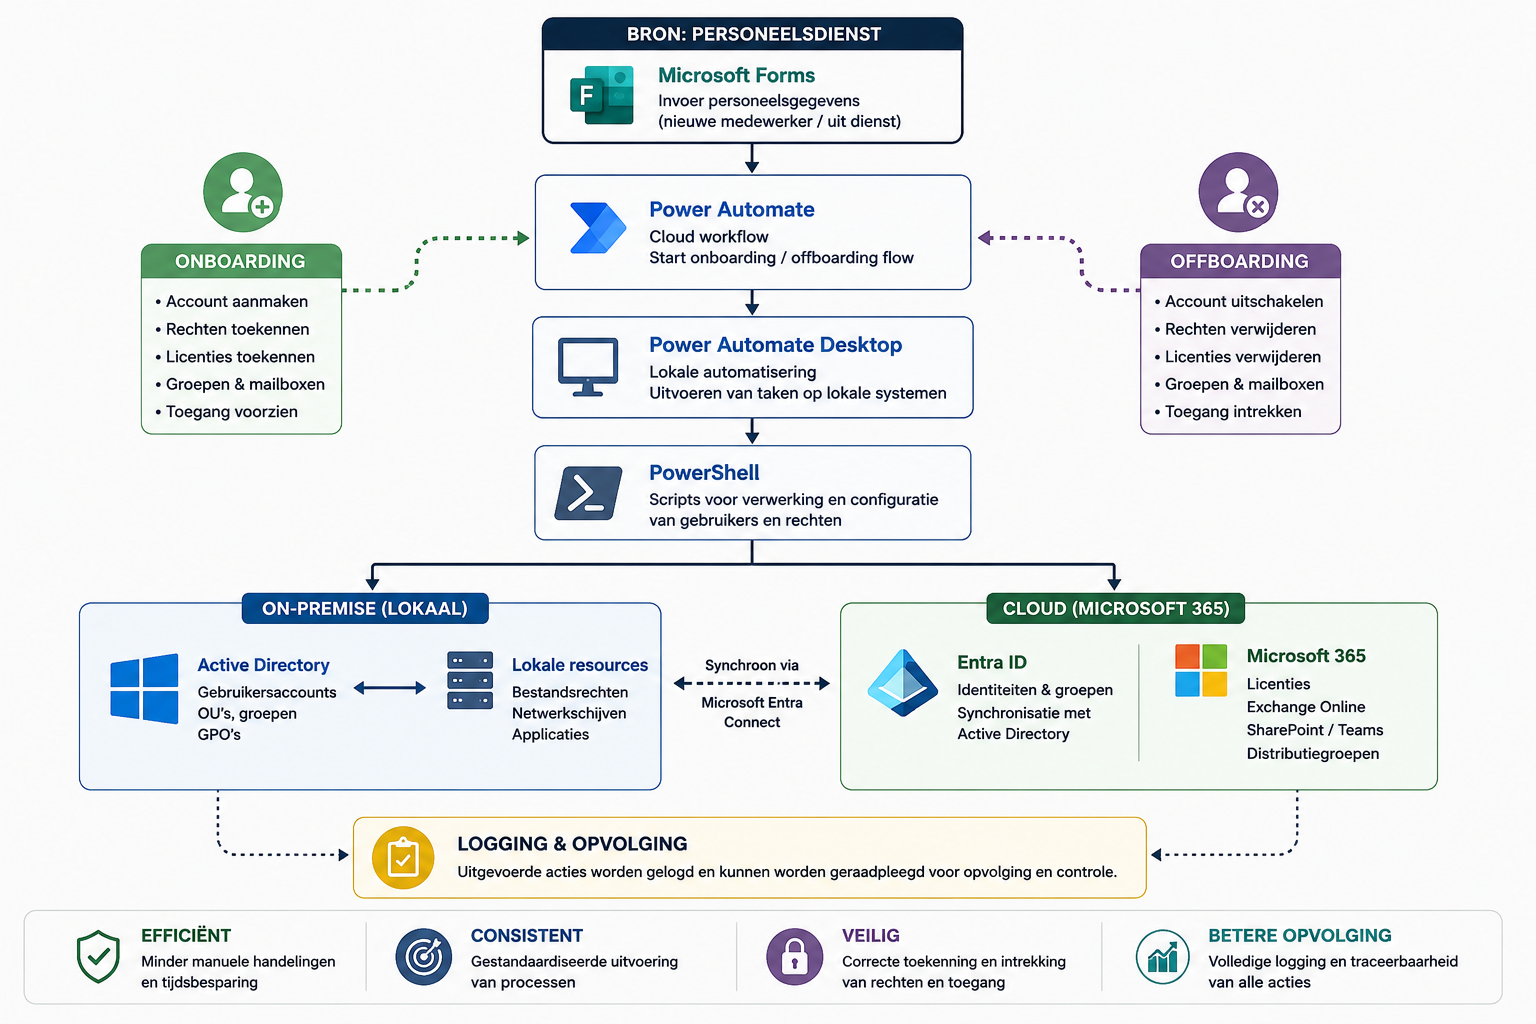
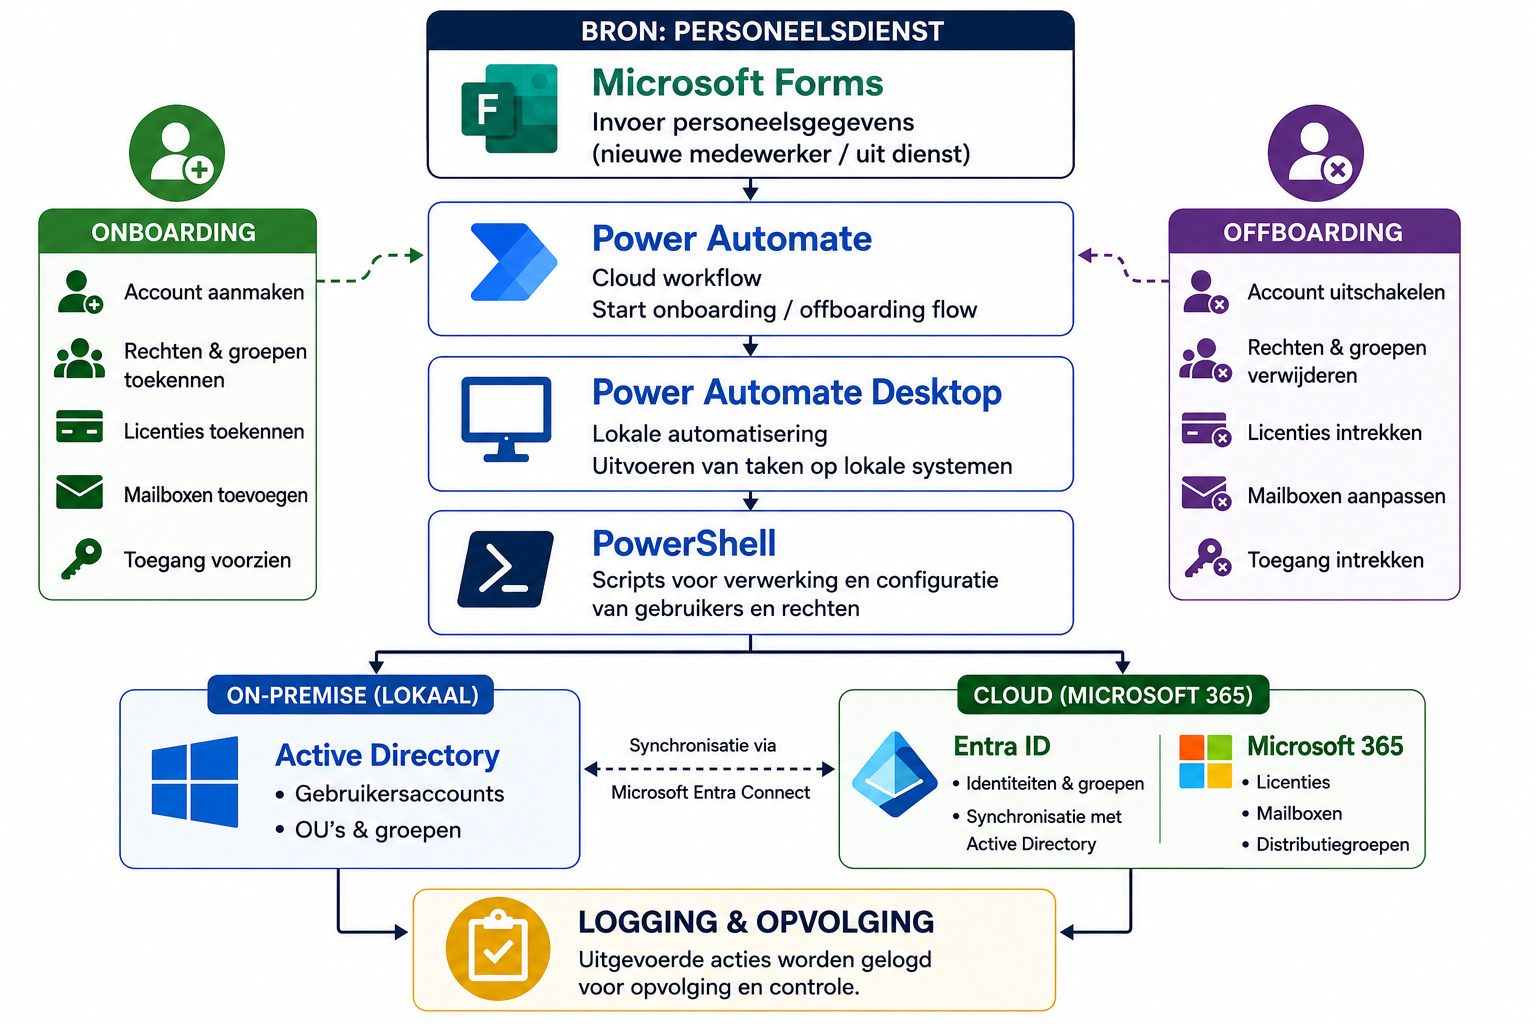
Poster

diff --git a/poster/conference_poster.tex b/poster/conference_poster.tex
@@ -13,9 +13,8 @@
 \institution{Hogeschool Gent, Valentin Vaerwyckweg 1, 9000 Gent}
 
 % Info over de bachelorproef
-\title{Automatisatie van het onboarding- en offboardingsproces binnen het gemeen-
-tebestuur van Berlare}
-\author{Ewout Van Mulem}
+\title{Automatisatie van het onboarding- en offboardingsproces binnen het gemeentebestuur van Berlare}
+\author{Ewout Van Mullem}
 \email{ewout.vanmullem@student.hogent.be}
 \supervisor{Thomas Aelbrecht}
 \cosupervisor{Hans Van Mingeroet (Gemeentebestuur Berlare)}
@@ -66,20 +65,26 @@ Op welke manier kan een geautomatiseerd systeem ontwikkeld worden dat, op basis 
 
 \section{Methodologie}
 
-Het onderzoek werd uitgevoerd aan de hand van een Proof of Concept methode, waarbij de oplossing iteratief werd ontworpen, ontwikkeld en geëvalueerd.
+Het onderzoek werd uitgevoerd aan de hand van een Proof of Concept-methode,
+waarbij de oplossing iteratief werd ontworpen, ontwikkeld en geëvalueerd.
 
 \subsection{Analyse}
-Het bestaande onboarding- en offboardingproces en de huidige IT-infrastructuur werden in kaart gebracht. Hierbij werden knelpunten en mogelijke automatiseringsstappen geïdentificeerd.
+Het bestaande onboarding- en offboardingproces en de IT-infrastructuur
+werden geanalyseerd. Hierbij werden knelpunten en mogelijke
+automatiseringsstappen geïdentificeerd.
 
 \subsection{Ontwerp}
-Op basis van de analyse werd een geautomatiseerde workflow ontworpen die aansluit bij de bestaande hybride IT-omgeving.
+Op basis van de analyse werd een geautomatiseerde workflow ontworpen
+voor de bestaande hybride IT-omgeving.
 
 \subsection{Implementatie}
-De oplossing werd gerealiseerd met Microsoft Forms, Power Automate, Power Automate Desktop, PowerShell en Microsoft 365.
+De oplossing werd gerealiseerd met Microsoft Forms, Power Automate,
+Power Automate Desktop, PowerShell en Microsoft 365.
 
 \subsection{Evaluatie}
-De geautomatiseerde processen werden getest en vergeleken met de oorspronkelijke manuele werkwijze. Hierbij werd gekeken naar efficiëntie, consistentie, betrouwbaarheid en het verschil in tijd.
-
+De geautomatiseerde processen werden vergeleken met de oorspronkelijke
+manuele werkwijze op vlak van tijd, efficiëntie, consistentie en
+betrouwbaarheid.
 % \section{Toekomstig onderzoek}
 
 % I care. So, what do you think of her, Han? No! Alderaan is peaceful. We have no weapons. You can't possibly… I have traced the Rebel spies to her. Now she is my only link to finding their secret base.
@@ -88,23 +93,104 @@ De geautomatiseerde processen werden getest en vergeleken met de oorspronkelijke
 
 \section{Gerealiseerde oplossing}
 
-\begin{center}
-  \captionsetup{type=figure}
-  \includegraphics[width=1.0\linewidth]{graphics/Uitwerking.png}
-  \captionof{figure}{Visuele voorstelling van het uitgewerkte proces}
-\end{center}
+% \begin{center}
+%   \includegraphics[width=1.0\linewidth]{graphics/Uitwerking.png}
+
+%   \captionsetup{type=figure}
+%   \captionof{figure}{Visuele voorstelling van het uitgewerkte proces}
+% \end{center}
+
+\begin{minipage}{\linewidth}
+    \centering
+    \hspace*{-0.15\linewidth}
+    \includegraphics[width=1.15\linewidth,height=30cm]{graphics/Uitwerking.png}
+    
+    \captionof{figure}{Visuele voorstelling van het uitgewerkte proces}
+\end{minipage}
 
 \section{Resultaten}
 
-De ontwikkelde automatisering werd getest binnen de bestaande hybride IT-omgeving van het gemeentebestuur van Berlare.
+% De ontwikkelde automatisering werd getest binnen de bestaande hybride IT-omgeving van het gemeentebestuur van Berlare.
 
-Repetitieve taken binnen onboarding en offboarding worden automatisch uitgevoerd, waardoor de IT-dienst minder handmatig werk moet verrichten.
+% Repetitieve taken binnen onboarding en offboarding worden automatisch uitgevoerd, waardoor de IT-dienst minder handmatig werk moet verrichten.
 
-Gebruikers worden volgens vooraf bepaalde regels aangemaakt, toegewezen aan de juiste OU's en groepen en voorzien van de benodigde rechten en licenties.
+% Gebruikers worden volgens vooraf bepaalde regels aangemaakt, toegewezen aan de juiste OU's en groepen en voorzien van de benodigde rechten en licenties.
 
-De automatisering verkort de verwerking van gebruikers en maakt het mogelijk om meerdere opeenvolgende stappen automatisch uit te voeren.
+% De automatisering verkort de verwerking van gebruikers en maakt het mogelijk om meerdere opeenvolgende stappen automatisch uit te voeren.
 
-Uitgevoerde acties worden bijgehouden, waardoor de voortgang van het proces beter gecontroleerd en opgevolgd kan worden.
+% Uitgevoerde acties worden bijgehouden, waardoor de voortgang van het proces beter gecontroleerd en opgevolgd kan worden.
+
+De ontwikkelde automatisering werd getest binnen de bestaande hybride
+IT-omgeving van het gemeentebestuur van Berlare. De automatisering vermindert de actieve verwerkingstijd van onboarding
+van 13--21 minuten naar 2--3 minuten en beperkt het aantal manuele handelingen.
+
+\begin{center}
+
+\setlength{\fboxsep}{12pt}
+
+\fbox{
+  \parbox{0.90\linewidth}{
+    \centering
+
+    \textbf{\large Onboarding: actieve verwerkingstijd}
+
+    \vspace{8pt}
+
+    \begin{tabular}{c@{\hspace{25pt}}c@{\hspace{25pt}}c}
+
+      \textbf{Manueel} & & \textbf{Geautomatiseerd} \\[3pt]
+
+      \textbf{\Large 13--21 min.} &
+      \textbf{\Large $\rightarrow$} &
+      \textbf{\Large 2--3 min.}
+
+    \end{tabular}
+
+    \vspace{6pt}
+
+    \textit{10--19 minuten minder actieve verwerkingstijd}
+
+  }
+}
+
+\end{center}
+
+\vspace{8pt}
+
+\subsection{Bereikte automatisering}
+
+\begin{tabular}{p{0.46\linewidth} p{0.46\linewidth}}
+\textbf{Onboarding} &
+\textbf{Offboarding} \\[4pt]
+
+$\bullet$ Gebruiker automatisch aangemaakt &
+$\bullet$ Account automatisch gedeactiveerd \\
+
+$\bullet$ OU's en groepen automatisch bepaald &
+$\bullet$ Groepen automatisch verwijderd \\
+
+$\bullet$ Licenties automatisch toegewezen &
+$\bullet$ Licenties automatisch ingetrokken \\
+
+$\bullet$ Mailboxrechten automatisch verwerkt &
+$\bullet$ Mailboxrechten automatisch verwijderd \\
+
+$\bullet$ Automatische logging &
+$\bullet$ Automatische verwerking op einddatum
+\end{tabular}
+
+\vspace{8pt}
+
+\subsection{Betrouwbaarheid}
+
+Gegevens worden één keer ingevoerd via Microsoft Forms en vervolgens
+automatisch verwerkt volgens vaste mappings en regels. Hierdoor worden
+manuele configuratiestappen verminderd en neemt de kans op vergeten of
+inconsistente configuraties af.
+
+Daarnaast zorgen logging, foutafhandeling en automatische
+herhalingsmechanismen voor een betere opvolging en betrouwbaarheid van
+het proces.
 
 \section{Conclusie}
 
@@ -113,6 +199,9 @@ De ontwikkelde oplossing toont aan dat het onboarding- en offboardingproces binn
 Door de inzet van Power Automate, Power Automate Desktop en PowerShell worden repetitieve handelingen verminderd en kunnen gebruikers consistenter en efficiënter worden verwerkt. Hierdoor wordt de IT-dienst ontlast en neemt de betrouwbaarheid van beide processen toe.
 
 De oplossing vormt bovendien een basis voor verdere automatisering en integratie binnen de IT-omgeving.
+
+\section{Beperkingen \& toekomst}
+Hardware, specifieke toegangsrechten en bepaalde Exchange Online-configuraties blijven deels manueel. Verdere integratie en certificaatgebaseerde authenticatie bieden mogelijkheden voor uitbreiding.
 
 \end{multicols}
 \end{document}
